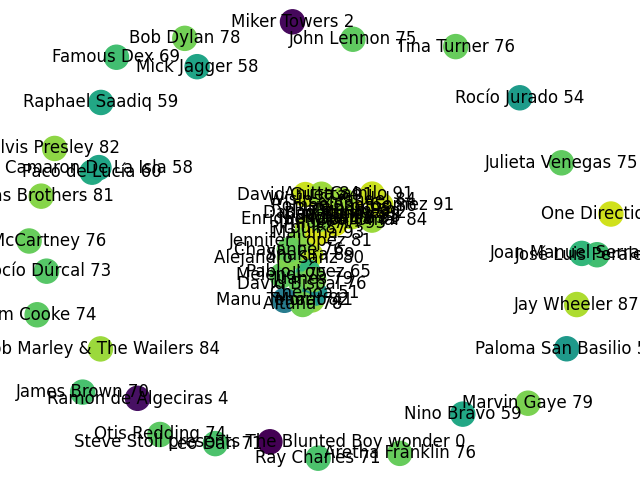
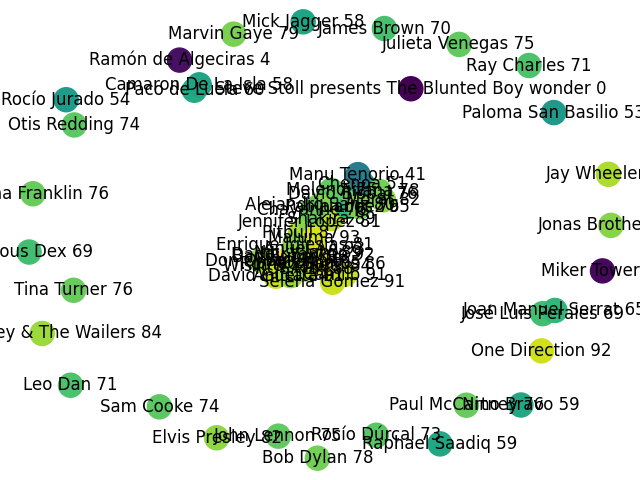
add legend

diff --git a/website/dashboard.html b/website/dashboard.html
@@ -13,8 +13,15 @@
             <p><label><input type="radio" name = 'metric' onchange="clearMetrics(); metrics.betweenness = this.checked; updateAll();"> Betweenness</label></p>
             <p><label><input type="radio" name = 'metric' onchange="clearMetrics(); metrics.eigenvector = this.checked; updateAll();"> Eigenvector</label></p>
             <p><label><input type="radio" name = 'metric' onchange="clearMetrics(); metrics.pagerank = this.checked; updateAll();"> Pagerank</label></p>
-
-         </div>
+          </div>
+          <div class="force" class="legend">
+              <center><h2>Artist Popularity</h2></center>
+              <img src="img/node-color-legend.png" alt="Node Color legend">
+          </div>
+          <div class="force" class="legend">
+              <center><h2>Mutual Songs (Edge)</h2></center>
+              <img src="img/edege-size-legend.png" alt="Edge Size legend">
+          </div>
       </div>
       <svg></svg>
 

diff --git a/website/js/code.js b/website/js/code.js
@@ -85,9 +85,9 @@ function initializeDisplay() {
 }
 
 function node_color(d) {
-    if(d.popularity_class === 3) return 'green'
-    else if (d.popularity_class === 2) return 'blue'
-    else if (d.popularity_class === 1) return 'orange'
+    if(d.popularity >= 90) return 'green'
+    else if (d.popularity < 90 && d.popularity >= 50) return 'blue'
+    else if (d.popularity < 50 && d.popularity >= 25) return 'orange'
     else return 'red'
 }
 

diff --git a/website/css/style.css b/website/css/style.css
@@ -23,9 +23,12 @@ body {
 	background-color: black;
 	border-radius: 3px;
 	padding: 5px;
-	margin: 5px 0;
+	margin: 25px 100px;
 }
 
+.force {
+	margin: 20%;
+}
 .controls .force p label {
 	margin-right: .5em;
 	font-size: 120%;
@@ -136,4 +139,8 @@ svg {
 	margin: -2px 0 0 0;
 	top: 100%;
 	left: 0;
+}
+
+.legend {
+	margin-top: 5%;
 }

diff --git a/etl/graphs.py b/etl/graphs.py
@@ -30,16 +30,6 @@ if __name__ == '__main__':
             node['betweenness'] = round(betweenness[current_name] * 100, 2)
             node['eigenvector'] = round(eigenvector[current_name] * 100, 2)
             node['pagerank'] = round(pagerank[current_name] * 100, 2)
-
-            if node['popularity'] > 90:
-                node['popularity_class'] = 3
-            elif 50 <= node['popularity'] <= 90:
-                node['popularity_class'] = 2
-            elif 25 <= node['popularity'] <= 50:
-                node['popularity_class'] = 1
-            else:
-                node['popularity_class'] = 0
-
             node.pop('partners', None)
             node.pop('tracks', None)
             node.pop('genres', None)
